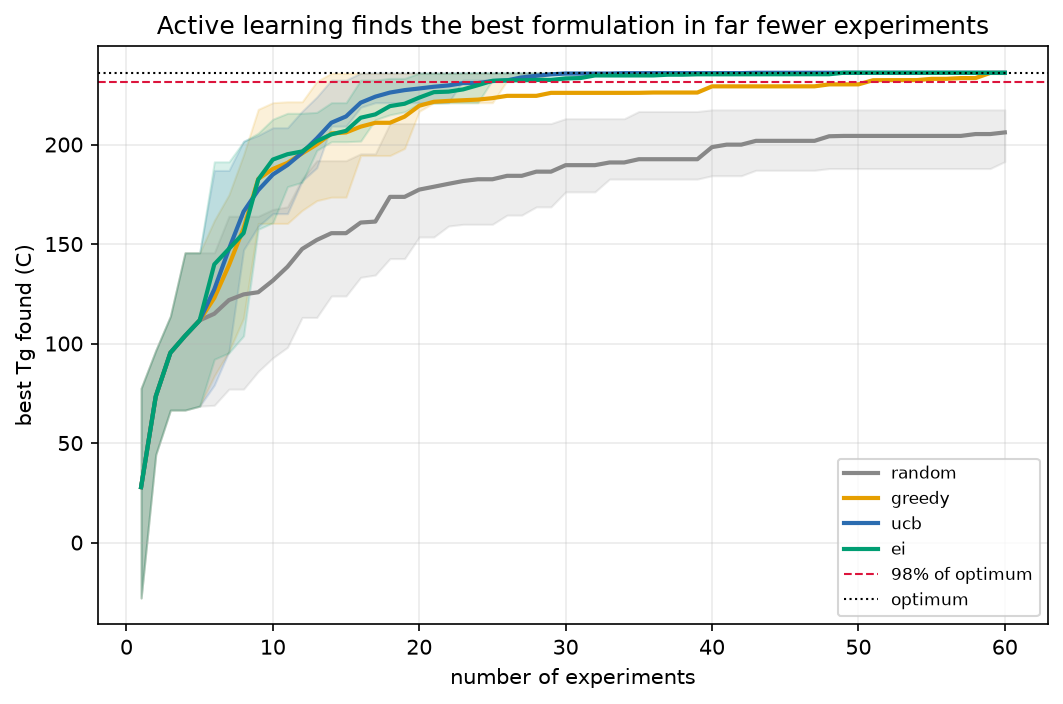
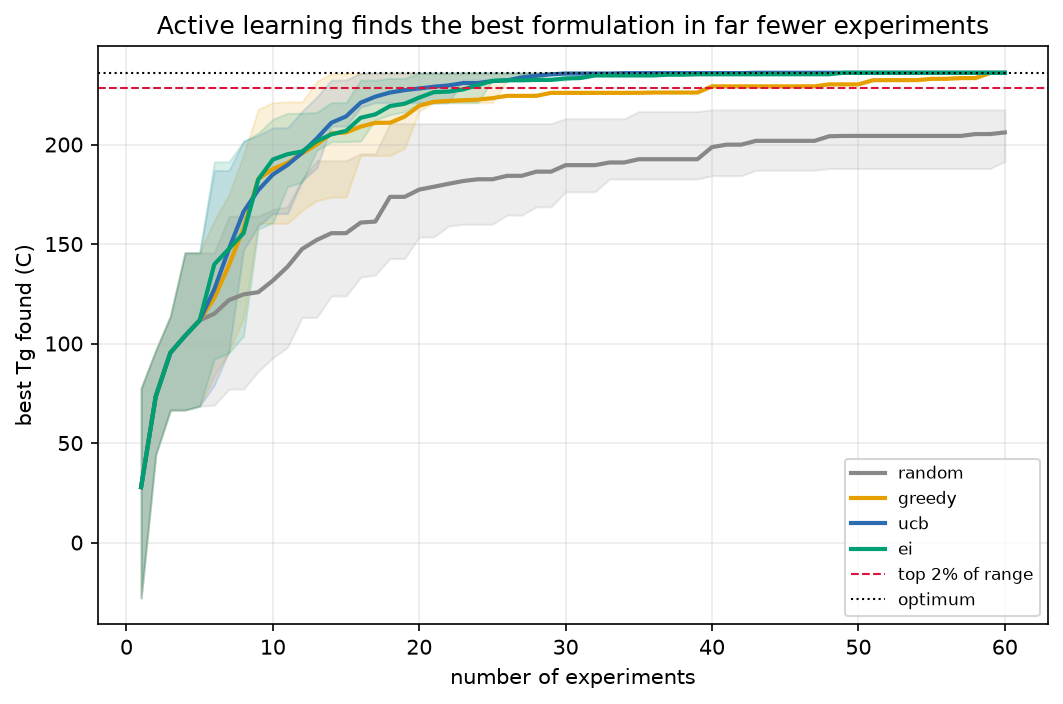
Fix five review findings in the AL loop and scripts
- cost_aware division inverted the preference whenever acquisition scores were
  negative (UCB/greedy on negative targets like log-conductivity): dividing a
  negative score by a larger cost RAISES it, so the loop preferred the most
  expensive candidates. Scores are now shifted non-negative before the
  utility-per-cost division.
- build_spe_design_space guarded mw with 'or', but pandas encodes missing MW
  as NaN, which is truthy -- NaN flowed into the features and would kill the
  GP mid-campaign on a refreshed download. Explicit isfinite/positive guard.
- run_optimization.py drew its target line as frac*best while the reported
  table uses the range-relative formula from experiments_to_target, so the
  plotted crossing points disagreed with the printed counts. Both figures now
  use the same definition (regenerated; headline numbers unchanged).
- The headline 'reduction' line could present the censored budget+1 sentinel
  as a real experiment count; it now says so when no AL strategy reached the
  target.
- n_seed is clamped to the budget so traces can never come out longer than
  budget (which crashed plotting and corrupted the censoring threshold).

diff --git a/src/formulate/loop.py b/src/formulate/loop.py
@@ -54,13 +54,20 @@ def run_campaign(
         ``predict(return_std=True)``.
     cost_aware
         If True, divide the acquisition score by candidate cost, so the loop
-        prefers cheaper experiments of comparable promise.
+        prefers cheaper experiments of comparable promise. Scores are shifted to
+        be non-negative first: raw UCB/greedy scores are negative whenever the
+        target is (e.g. log-conductivity), and dividing a negative score by a
+        larger cost would *raise* it -- silently inverting the preference toward
+        the most expensive candidates.
     """
     rng = np.random.default_rng(seed)
     n = len(space)
     budget = min(budget, n)
 
-    queried: list[int] = list(rng.choice(n, size=min(n_seed, n), replace=False))
+    # never seed with more experiments than the budget allows, or the trace
+    # comes out longer than `budget` and downstream metrics/plots misalign
+    n_seed = min(n_seed, budget, n)
+    queried: list[int] = list(rng.choice(n, size=n_seed, replace=False))
     remaining = set(range(n)) - set(queried)
 
     def trace(idx_list):
@@ -80,7 +87,8 @@ def run_campaign(
             best = float(np.max(space.y_true[queried]))
             scores = acquisition_scores(strategy, mu, sigma, best, rng, beta)
         if cost_aware:
-            scores = scores / space.cost[rem]
+            # utility-per-cost needs a non-negative utility (see docstring)
+            scores = (scores - scores.min()) / space.cost[rem]
 
         pick = int(rem[int(np.argmax(scores))])
         queried.append(pick)

diff --git a/scripts/run_optimization.py b/scripts/run_optimization.py
@@ -70,7 +70,10 @@ def main() -> None:
         shown = f"{v:.0f}" if v <= args.budget else f">{args.budget}"
         print(f"  {s:8s} {shown}")
     best_al = min(v for s, v in ett.items() if s != "random")
-    if ett["random"] > args.budget:
+    if best_al > args.budget:
+        print(f"\nNo active-learning strategy reached the target within "
+              f"{args.budget} experiments on a median restart.")
+    elif ett["random"] > args.budget:
         print(f"\nActive learning reaches the target in ~{best_al:.0f} experiments; "
               f"random screening does not reach it within {args.budget}.")
     else:
@@ -99,9 +102,11 @@ def main() -> None:
         ax.plot(xs, summ.mean(s), color=COLORS[s], lw=2, label=s)
         lo, hi = summ.band(s)
         ax.fill_between(xs, lo, hi, color=COLORS[s], alpha=0.15)
-    target = args.target_frac * space.best_value
+    # same range-relative definition experiments_to_target uses, so the plotted
+    # line sits exactly at the threshold the table was computed against
+    target = summ.worst_value + args.target_frac * (summ.best_value - summ.worst_value)
     ax.axhline(target, color="crimson", ls="--", lw=1,
-               label=f"{args.target_frac:.0%} of optimum")
+               label=f"top {(1 - args.target_frac):.0%} of range")
     ax.axhline(space.best_value, color="k", ls=":", lw=1, label="optimum")
     ax.set_xlabel("number of experiments")
     ax.set_ylabel("best Tg found (C)")

diff --git a/src/formulate/real_data.py b/src/formulate/real_data.py
@@ -116,9 +116,12 @@ def build_spe_design_space(
             continue
 
         salt_frac = fracs[ids.index(sid)]
+        # pandas encodes missing MW as NaN, which is truthy -- `mw or 1e4` would
+        # pass it through and poison the feature matrix (GP raises mid-campaign).
+        mw_val = mw if (mw is not None and np.isfinite(mw) and mw > 0) else 1e4
         feat = np.concatenate([
             pol_cache[pid], salt_cache[sid],
-            [salt_frac, np.log10(mw or 1e4), temp],
+            [salt_frac, np.log10(mw_val), temp],
         ])
         rows.append(feat)
         targets.append(float(val))
